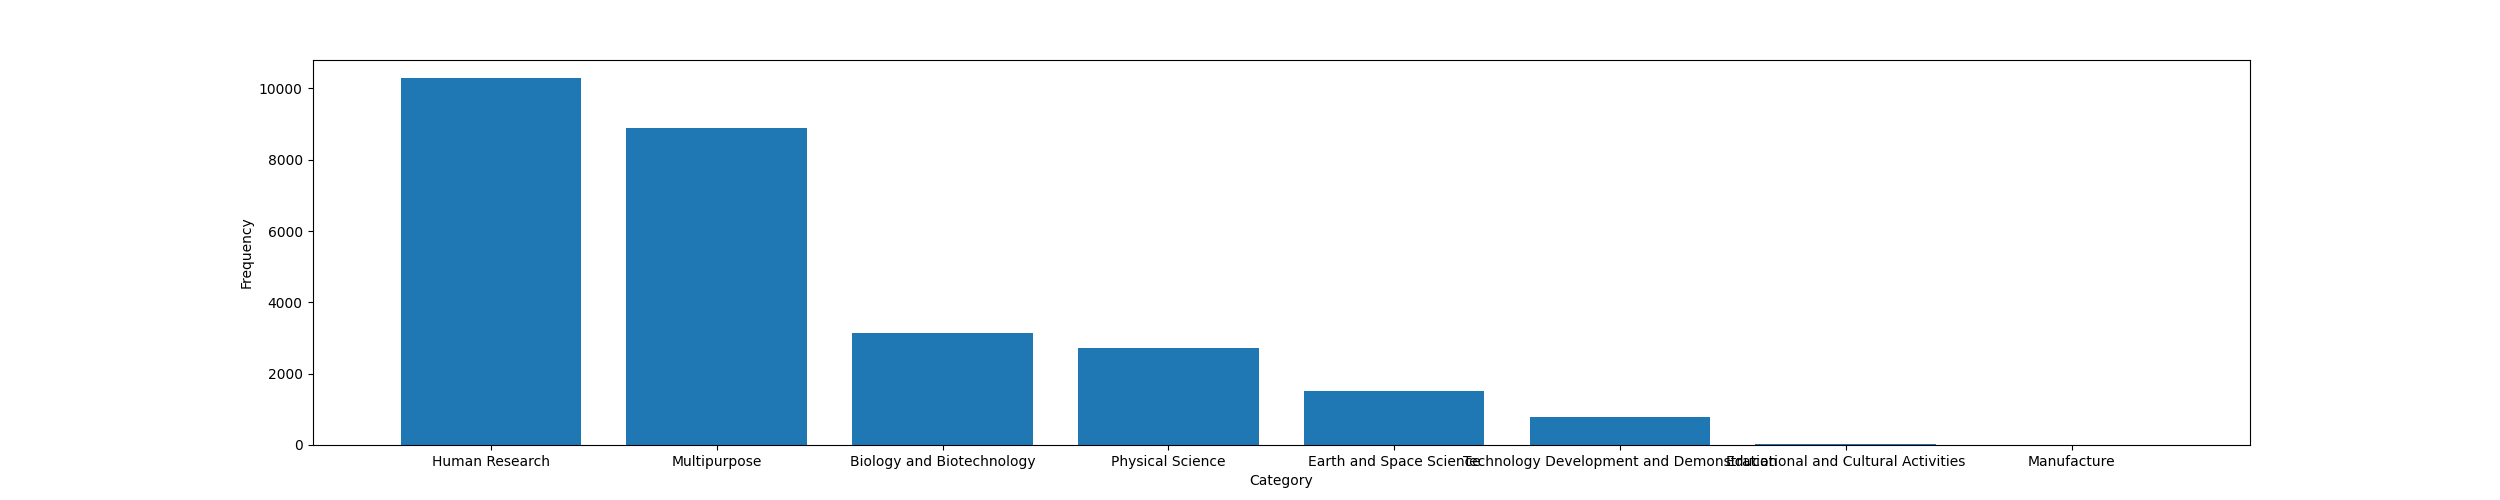
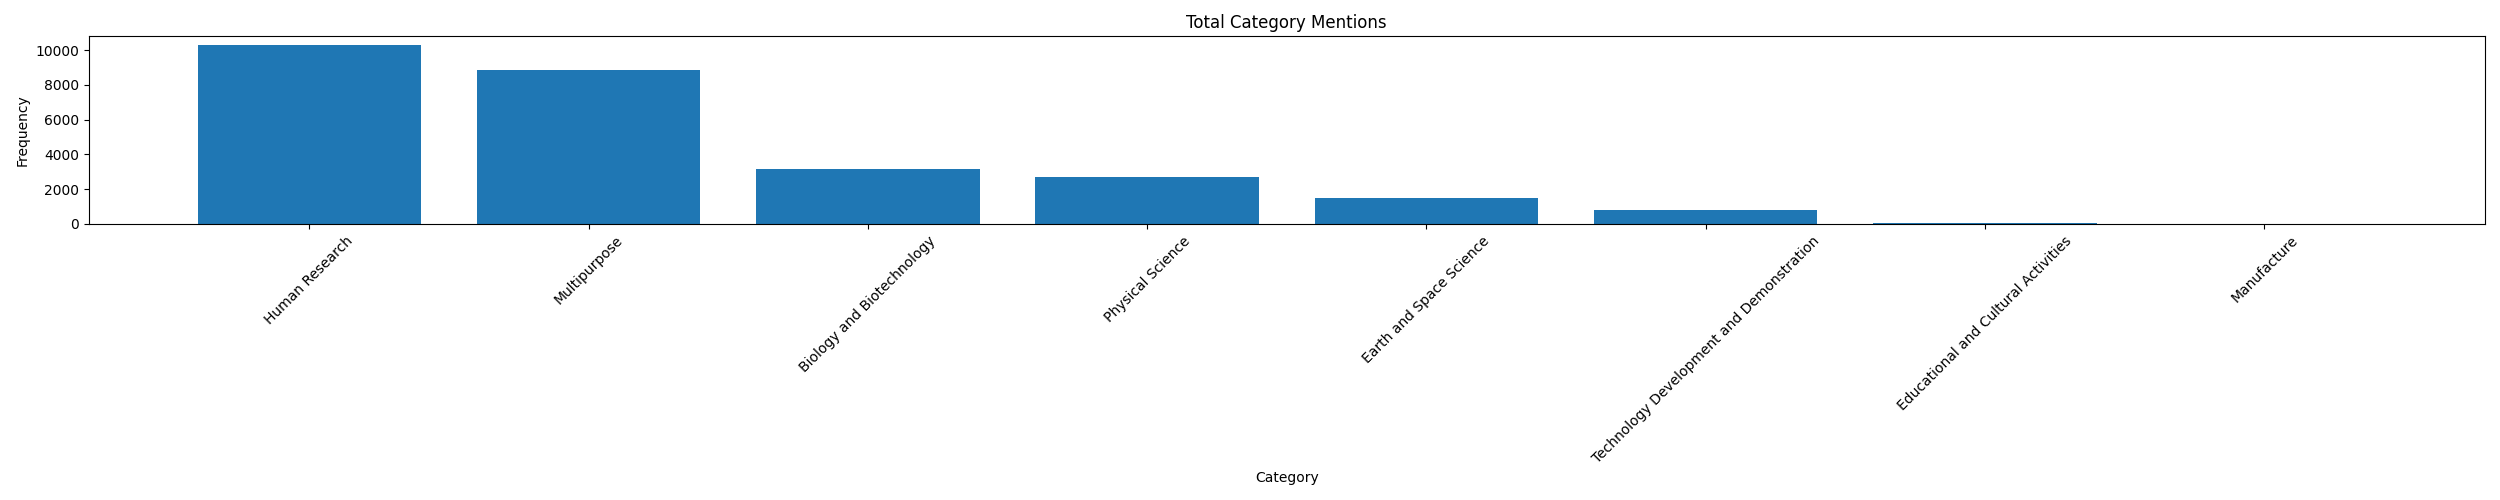
cleaning category figures

diff --git a/analysis.py b/analysis.py
@@ -15,7 +15,7 @@ df['Report Date'] = pd.to_datetime(df['Report Date'])
 
 df_range = df[df["Report Date"] < "2023-01-01"]
 
-plot_pairs("./analysis/csv/apriori_pairs/filtered/")
+# plot_pairs("./analysis/csv/apriori_pairs/filtered/")
 
 # calc_report_date_frequency(df_range)
 
@@ -34,8 +34,8 @@ plot_pairs("./analysis/csv/apriori_pairs/filtered/")
 
 # calc_facility_freq_year(df_range)
 
-# facility_data = generate_facility_names("./sources/facility_data/csv/all_facilities.csv")
+facility_data = generate_facility_names("./sources/facility_data/csv/all_facilities.csv")
 
-# calc_total_category_mentions(facility_data["category_facilities"], df_range)
+calc_total_category_mentions(facility_data["category_facilities"], df_range)
 
 # calc_report_date_frequency(df_range)

diff --git a/apriori.py b/apriori.py
@@ -26,18 +26,19 @@ f.close()
 
 category_pair_count = {}
 
+
 with open("./analysis/json/custom_category_pair_frequency.json", "r") as f:
     data = json.load(f)
 f.close()
-
-print(data.keys())
 
 # Plot Custom Category Pair Mentions
 plt.figure(figsize=(15, 5))
 plt.title("Custom Category Pair Mentions")
 plt.xlabel("Category Pair")
 plt.ylabel("Frequency")
+plt.xticks(rotation=45)
 plt.bar(list(data.keys())[:5], list(data.values())[:5])
+plt.tight_layout()
 plt.savefig("./analysis/plots/Custom_Category_Pair_Mentions.png")
 plt.show()
 plt.close()

diff --git a/utils/analysis_utils.py b/utils/analysis_utils.py
@@ -124,8 +124,11 @@ def calc_total_category_mentions(facility_category: dict, df_range: pd.DataFrame
     plt.figure(figsize=(25, 5))
     print(df_category_mentions.values.shape)
     plt.bar(df_category_mentions.index[:-1], df_category_mentions.values.flatten()[:-1])
+    plt.title("Total Category Mentions")
     plt.xlabel("Category")
     plt.ylabel("Frequency")
+    plt.xticks(rotation=45)
+    plt.tight_layout()
     plt.savefig("./analysis/plots/Category_Mentions.png")
     plt.close()
 
